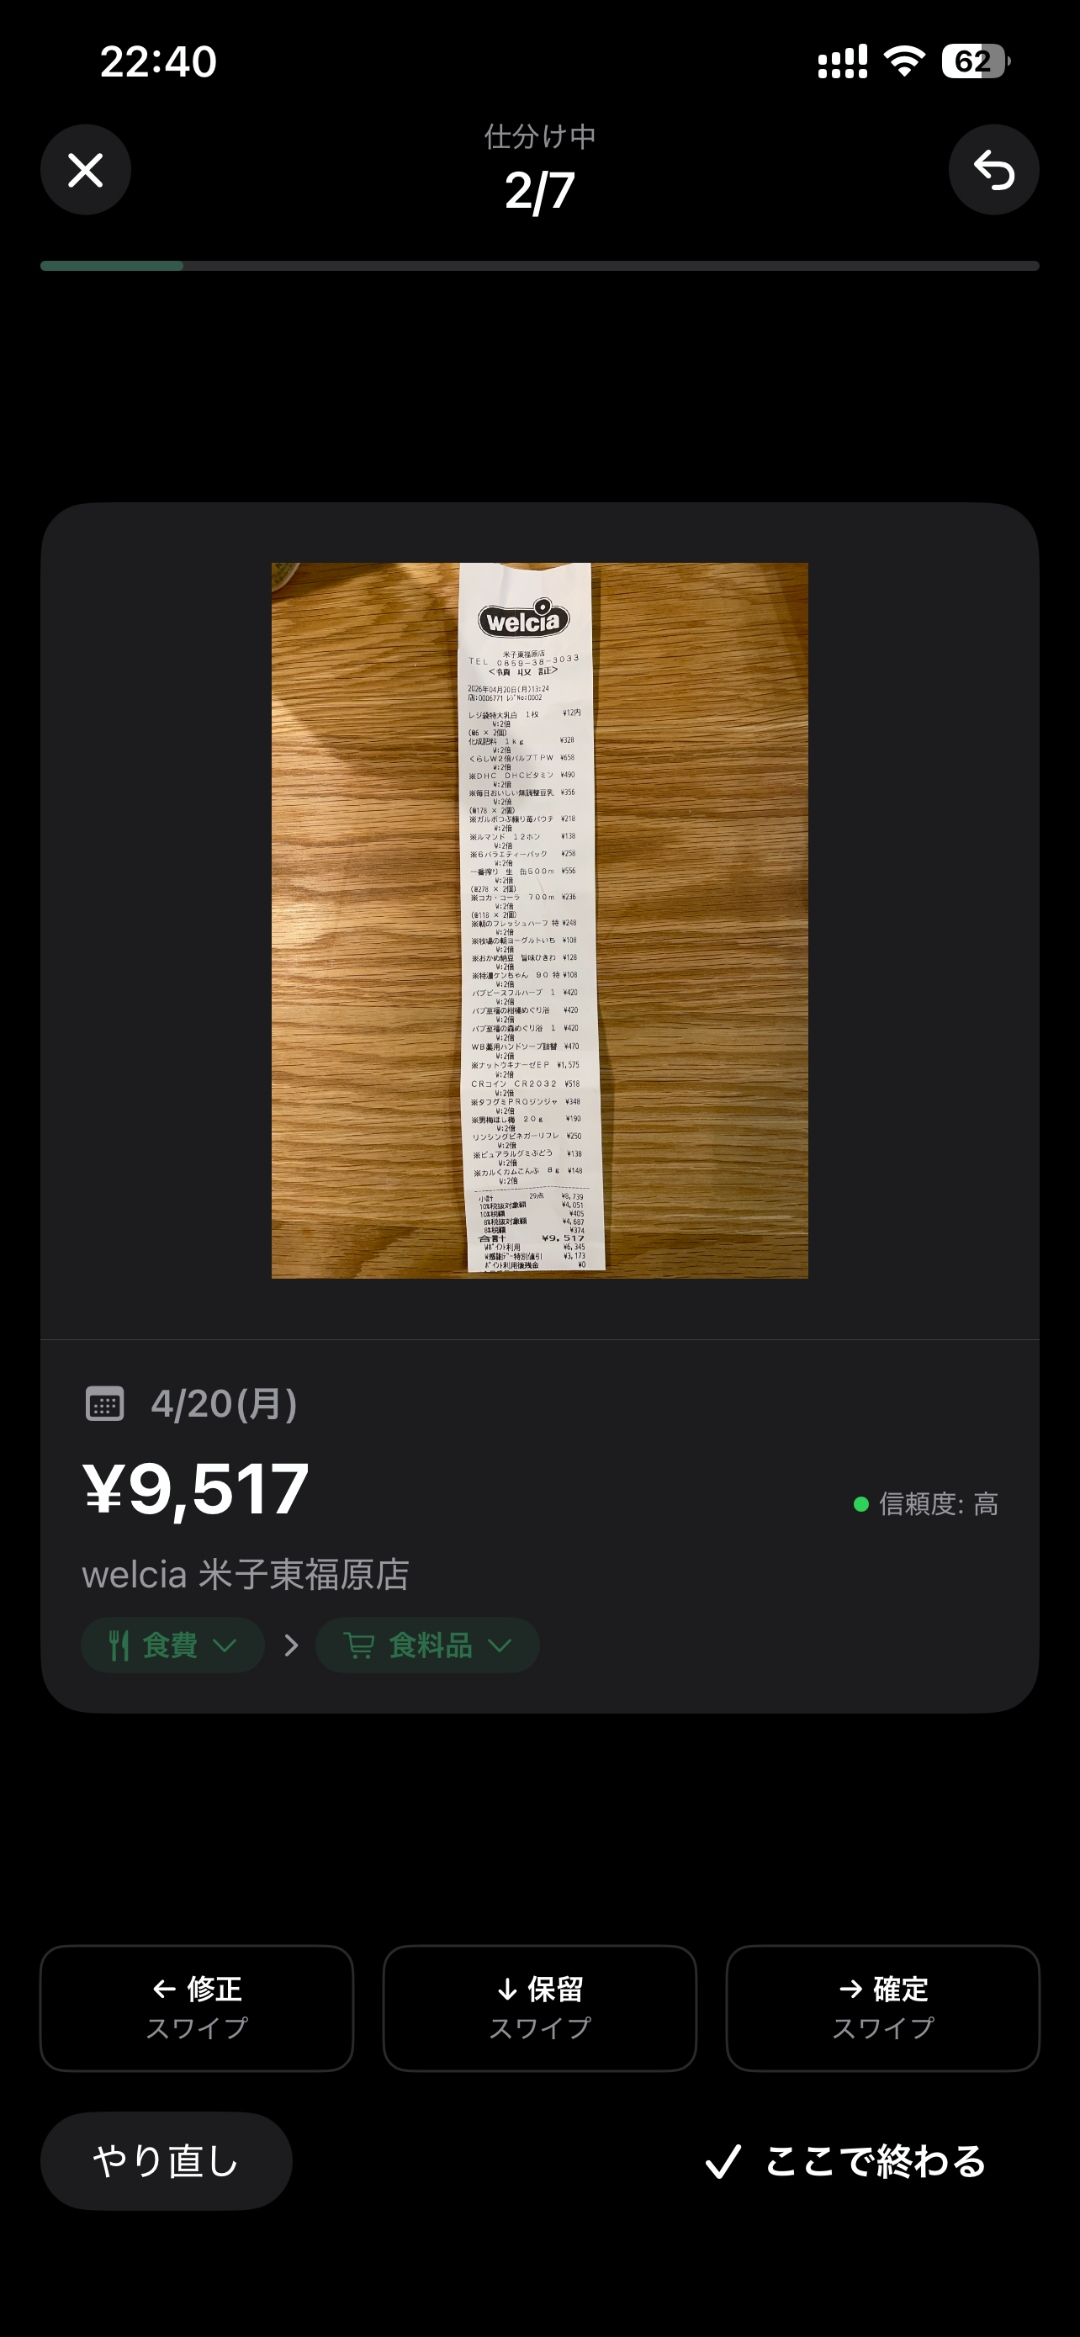
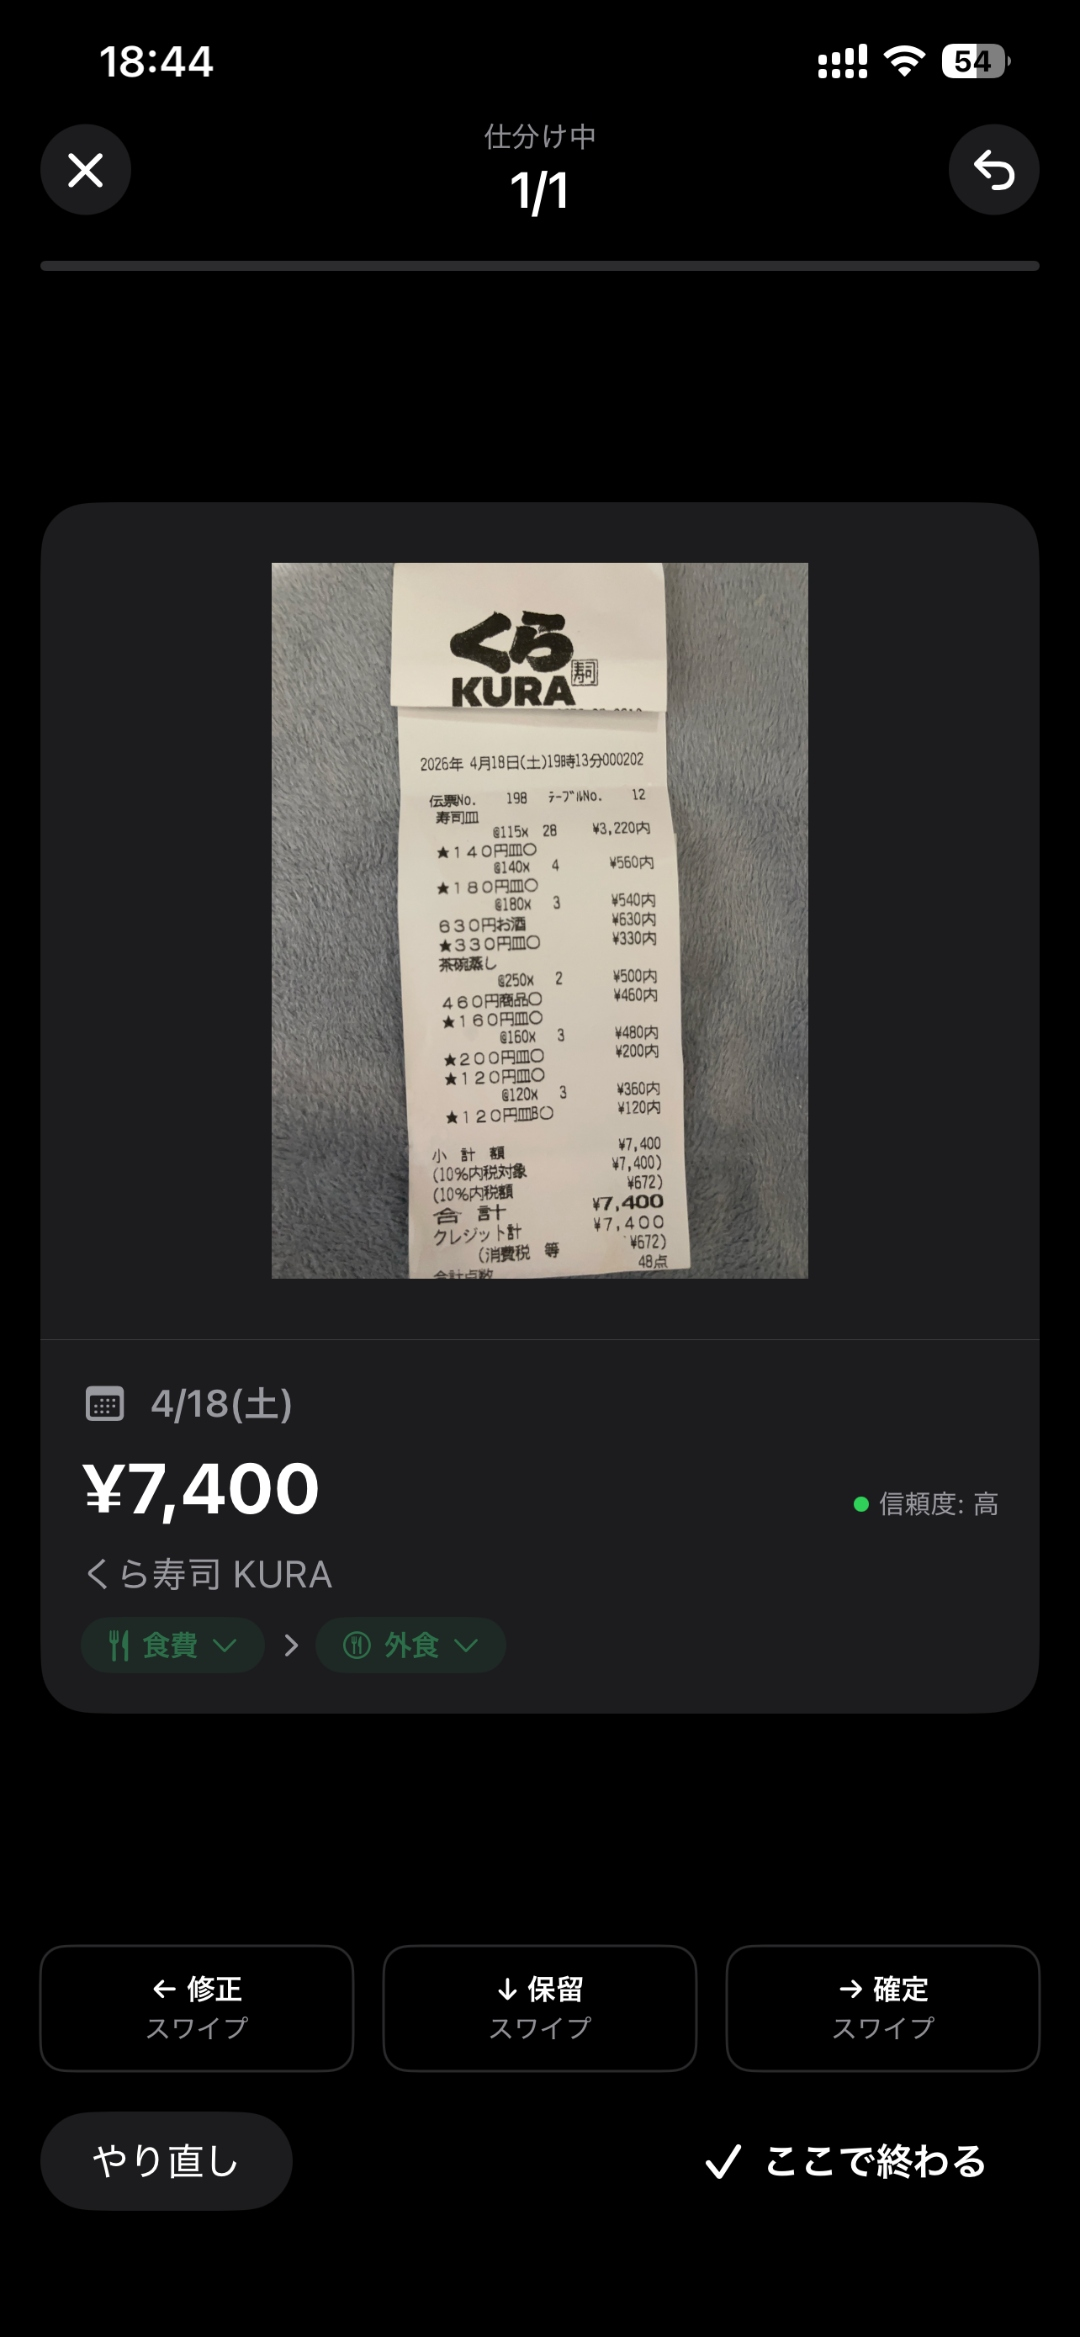
feat(hubwallet): drop CSV mentions, set ¥380/月 plan, add comparison table and 15s intro video
- Remove all CSV import references from the HubWallet product page
  (differentiation copy, privacy bullet, and FAQ) — CSV import is not
  part of the MVP release.
- Replace Plus plan pricing ¥480/月 + 年額 ¥3,800 with a single
  monthly plan at ¥380/月. Remove all annual plan wording.
- Add a Free vs Plus feature comparison table sourced from the latest
  in-app plan screen: AI 月 10 回 / 月 500 回, 予算管理 2 カテゴリ / 無制限,
  サブカテゴリ追加 — / 30 件, 親カテゴリ別レポート — / ✓, etc.
- Refresh Free/Plus plan card copy and bullet items to match.
- Replace screenshots for 仕分け / 月次レポート / 音声入力 with the
  latest screen captures.
- Add a 15-second intro video at the top of the App Screenshots section
  (muted, autoplay, loop, playsInline, controls) with the home screen as
  the poster fallback.
- Append implementation log to docs/web-renewal/DAILY_LOG.md.

Verified with pnpm build (Next.js 16.2.4, 53 pages generated).

diff --git a/src/app/(marketing)/products/hubwallet/page.tsx b/src/app/(marketing)/products/hubwallet/page.tsx
@@ -126,7 +126,7 @@ const compare = [
     type: '自動連携型',
     examples: 'マネーフォワード ME, Zaim',
     diff:
-      '銀行口座やカード情報を渡さなくていい。OCR・手入力・音声・CSV のみで、自分の手元だけで家計簿が完結します。',
+      '銀行口座やカード情報を渡さなくていい。OCR・手入力・音声のみで、自分の手元だけで家計簿が完結します。',
   },
   {
     type: 'シンプル家計簿',
@@ -166,7 +166,7 @@ const flows = [
 const faqs = [
   {
     q: '銀行やクレジットカードと連携できますか？',
-    a: 'いいえ。連携は行わず、レシート撮影・手入力・音声・CSV インポートのみで記録します。金融規制やプライバシーの観点から、当面はこの方針を維持します。',
+    a: 'いいえ。連携は行わず、レシート撮影・手入力・音声入力のみで記録します。金融規制やプライバシーの観点から、当面はこの方針を維持します。',
   },
   {
     q: 'データは外部に送られますか？',
@@ -175,10 +175,6 @@ const faqs = [
   {
     q: 'Android 版はありますか？',
     a: '初回リリースは iOS のみです（iOS 17.0 以上）。Android 版は現時点で予定していません。',
-  },
-  {
-    q: '既存の家計簿アプリから移行できますか？',
-    a: 'マネーフォワードや Zaim などからの CSV インポートに対応する予定です。',
   },
   {
     q: '広告は表示されますか？',
@@ -352,6 +348,28 @@ export default function HubWalletPage() {
               ※ 表示中のデータはすべて開発用のモックです。
             </p>
           </div>
+
+          {/* 15 秒の紹介動画 */}
+          <figure className="mx-auto mt-10 max-w-sm">
+            <div className="relative aspect-[9/19] overflow-hidden rounded-3xl border border-border bg-surface-2 shadow-xl">
+              <video
+                className="absolute inset-0 h-full w-full object-cover"
+                src="/videos/hubwallet-product-intro.mp4"
+                poster="/images/hubwallet-screen-home.jpg"
+                autoPlay
+                muted
+                loop
+                playsInline
+                controls
+                preload="metadata"
+                aria-label="HubWallet 15 秒紹介動画 — レシート撮影から仕分け、レポートまで"
+              />
+            </div>
+            <figcaption className="mt-3 text-center text-xs text-text-faint">
+              15 秒で見る HubWallet — 撮って溜めて、あとで整理する。
+            </figcaption>
+          </figure>
+
           <div
             className="-mx-4 mt-12 flex snap-x snap-mandatory gap-4 overflow-x-auto px-4 pb-4 [-ms-overflow-style:none] [scrollbar-width:none] sm:mx-0 sm:mt-12 sm:grid sm:snap-none sm:gap-6 sm:overflow-visible sm:px-0 sm:pb-0 sm:grid-cols-2 lg:grid-cols-3 [&::-webkit-scrollbar]:hidden"
             aria-label="HubWallet の画面ギャラリー"
@@ -457,7 +475,7 @@ export default function HubWalletPage() {
               </h2>
               <ul className="mt-6 grid gap-3 sm:grid-cols-2">
                 {[
-                  '銀行・カード連携なし。OCR・手入力・音声・CSV のみ',
+                  '銀行・カード連携なし。OCR・手入力・音声のみ',
                   'データは端末ローカル（SwiftData）に保存',
                   'AI 処理時のみ、必要なデータを AI に送信',
                   'Sign in with Apple に対応',
@@ -563,10 +581,10 @@ export default function HubWalletPage() {
               まずは無料で、家計簿を始める。
             </h2>
             <p className="mt-4 text-sm leading-relaxed text-text-muted md:text-base">
-              基本の記録機能は Free プランから制限なく使えます。AI による OCR・カテゴリ推定をたくさん使いたい方は、Plus プランへ。
+              基本の記録機能は Free プランから使えます。AI による OCR・音声入力・カテゴリ推定をたくさん使いたい方は、月額 ¥380 の Plus プランへ。
             </p>
             <p className="mt-3 text-xs text-text-faint">
-              ※ 価格・回数はリリース前の仮置きです。リリース時に変更になる可能性があります。
+              ※ MVP リリース時点のプラン構成です。年額プランは提供していません。
             </p>
           </div>
           <div className="mx-auto mt-14 grid max-w-4xl gap-6 md:grid-cols-2">
@@ -582,23 +600,23 @@ export default function HubWalletPage() {
                 </span>
               </div>
               <p className="mt-3 text-xs text-text-muted">
-                基本機能を制限なく。AI 関連は月数回まで（仮）。
+                まずは無料で。AI 機能は月 10 回までお試しいただけます。
               </p>
               <ul className="mt-6 flex flex-col gap-3 text-sm text-text-muted">
                 <li className="flex items-start gap-2">
-                  <Check /> 手入力・CSV インポートは無制限
+                  <Check /> 手入力は無制限
                 </li>
                 <li className="flex items-start gap-2">
-                  <Check /> 月次・年間レポートは制限なし
+                  <Check /> 月次・年間レポート（基本）
                 </li>
                 <li className="flex items-start gap-2">
-                  <Check /> 親カテゴリ別の予算・定期支出
+                  <Check /> 定期支出のテンプレート
                 </li>
                 <li className="flex items-start gap-2">
-                  <Check /> AI OCR・カテゴリ推定 月数回まで（最終回数は調整中）
+                  <Check /> 予算管理は 2 カテゴリまで
                 </li>
                 <li className="flex items-start gap-2">
-                  <Check /> 音声入力も 月数回まで（最終回数は調整中）
+                  <Check /> AI OCR・音声・カテゴリ推定 月 10 回まで
                 </li>
                 <li className="flex items-start gap-2">
                   <Check /> 広告は一切なし
@@ -612,36 +630,36 @@ export default function HubWalletPage() {
                 おすすめ
               </span>
               <p className="text-xs font-semibold uppercase tracking-[0.14em] text-accent-product">
-                Subscription
+                Plus Plan
               </p>
               <h3 className="mt-2 font-display text-lg font-bold">Plus</h3>
               <div className="mt-4 flex items-baseline gap-1">
                 <span className="font-display text-4xl font-bold tracking-[-0.03em]">
-                  ¥480
+                  ¥380
                 </span>
-                <span className="text-sm text-text-muted">／ 月（仮）</span>
-              </div>
-              <div className="mt-2 inline-flex items-center rounded-full bg-accent-product/10 px-2.5 py-1 text-[0.7rem] font-semibold text-accent-product">
-                年額 ¥3,800（仮）
+                <span className="text-sm text-text-muted">／ 月</span>
               </div>
               <p className="mt-3 text-xs text-text-muted">
-                AI OCR・カテゴリ推定・音声入力をたくさん使いたい方向け。
+                Plus は AI 機能を月 500 回までご利用いただけます。
               </p>
               <ul className="mt-6 flex flex-col gap-3 text-sm text-text-muted">
                 <li className="flex items-start gap-2">
                   <Check />
                   <span>
-                    <strong className="font-semibold text-text">AI OCR・カテゴリ推定の利用上限を大幅アップ</strong>
+                    <strong className="font-semibold text-text">AI OCR・音声・カテゴリ推定 月 500 回まで</strong>
                   </span>
                 </li>
                 <li className="flex items-start gap-2">
                   <Check />
                   <span>
-                    <strong className="font-semibold text-text">音声入力の利用上限も大幅アップ</strong>
+                    <strong className="font-semibold text-text">予算管理は無制限カテゴリ</strong>
                   </span>
                 </li>
                 <li className="flex items-start gap-2">
-                  <Check /> 将来の DoubleHub 連携を優先的に開放
+                  <Check /> サブカテゴリ追加（最大 30 件）
+                </li>
+                <li className="flex items-start gap-2">
+                  <Check /> 親カテゴリ別レポート
                 </li>
                 <li className="flex items-start gap-2">
                   <Check /> いつでも解約可能・記録は端末に残る
@@ -653,7 +671,58 @@ export default function HubWalletPage() {
             </div>
           </div>
 
-          <div className="mx-auto mt-12 max-w-4xl rounded-2xl border border-border bg-surface-2 p-6">
+          {/* Free vs Plus 詳細比較表 */}
+          <div className="mx-auto mt-12 max-w-4xl overflow-x-auto rounded-2xl border border-border bg-surface shadow-sm">
+            <table className="w-full text-sm">
+              <caption className="sr-only">Free と Plus の機能比較</caption>
+              <thead>
+                <tr className="border-b border-divider bg-surface-2 text-left">
+                  <th className="px-4 py-3 font-semibold text-text">機能</th>
+                  <th className="px-4 py-3 text-center font-semibold text-text-muted">Free</th>
+                  <th className="px-4 py-3 text-center font-semibold text-accent-product">Plus</th>
+                </tr>
+              </thead>
+              <tbody className="[&>tr]:border-b [&>tr]:border-divider [&>tr:last-child]:border-0">
+                <tr>
+                  <td className="px-4 py-3 font-medium text-text">AI OCR・音声・カテゴリ推定</td>
+                  <td className="px-4 py-3 text-center text-text-muted">月 10 回</td>
+                  <td className="px-4 py-3 text-center font-semibold text-accent-product">月 500 回</td>
+                </tr>
+                <tr>
+                  <td className="px-4 py-3 font-medium text-text">手入力</td>
+                  <td className="px-4 py-3 text-center"><PlanCheck on={true} /></td>
+                  <td className="px-4 py-3 text-center"><PlanCheck on={true} accent /></td>
+                </tr>
+                <tr>
+                  <td className="px-4 py-3 font-medium text-text">予算管理</td>
+                  <td className="px-4 py-3 text-center text-text-muted">2 カテゴリ</td>
+                  <td className="px-4 py-3 text-center font-semibold text-accent-product">無制限</td>
+                </tr>
+                <tr>
+                  <td className="px-4 py-3 font-medium text-text">サブカテゴリ追加</td>
+                  <td className="px-4 py-3 text-center text-text-faint">—</td>
+                  <td className="px-4 py-3 text-center font-semibold text-accent-product">30 件</td>
+                </tr>
+                <tr>
+                  <td className="px-4 py-3 font-medium text-text">定期支出</td>
+                  <td className="px-4 py-3 text-center"><PlanCheck on={true} /></td>
+                  <td className="px-4 py-3 text-center"><PlanCheck on={true} accent /></td>
+                </tr>
+                <tr>
+                  <td className="px-4 py-3 font-medium text-text">レポート機能</td>
+                  <td className="px-4 py-3 text-center"><PlanCheck on={true} /></td>
+                  <td className="px-4 py-3 text-center"><PlanCheck on={true} accent /></td>
+                </tr>
+                <tr>
+                  <td className="px-4 py-3 font-medium text-text">親カテゴリ別レポート</td>
+                  <td className="px-4 py-3 text-center text-text-faint">—</td>
+                  <td className="px-4 py-3 text-center"><PlanCheck on={true} accent /></td>
+                </tr>
+              </tbody>
+            </table>
+          </div>
+
+          <div className="mx-auto mt-10 max-w-4xl rounded-2xl border border-border bg-surface-2 p-6">
             <p className="text-xs font-semibold uppercase tracking-[0.14em] text-text-muted">
               Premium プランについて（将来予定）
             </p>
@@ -736,6 +805,24 @@ function Check() {
         strokeWidth="2"
         className="text-accent-product"
       >
+        <path d="M2.5 6l2.5 2.5 4.5-5" />
+      </svg>
+    </span>
+  );
+}
+
+function PlanCheck({ on, accent = false }: { on: boolean; accent?: boolean }) {
+  if (!on) return <span className="text-text-faint">—</span>;
+  return (
+    <span
+      aria-label="対応"
+      className={
+        accent
+          ? 'inline-grid h-5 w-5 place-items-center rounded-full bg-accent-product/15 text-accent-product'
+          : 'inline-grid h-5 w-5 place-items-center rounded-full bg-text-muted/15 text-text-muted'
+      }
+    >
+      <svg width="11" height="11" viewBox="0 0 12 12" fill="none" stroke="currentColor" strokeWidth="2">
         <path d="M2.5 6l2.5 2.5 4.5-5" />
       </svg>
     </span>